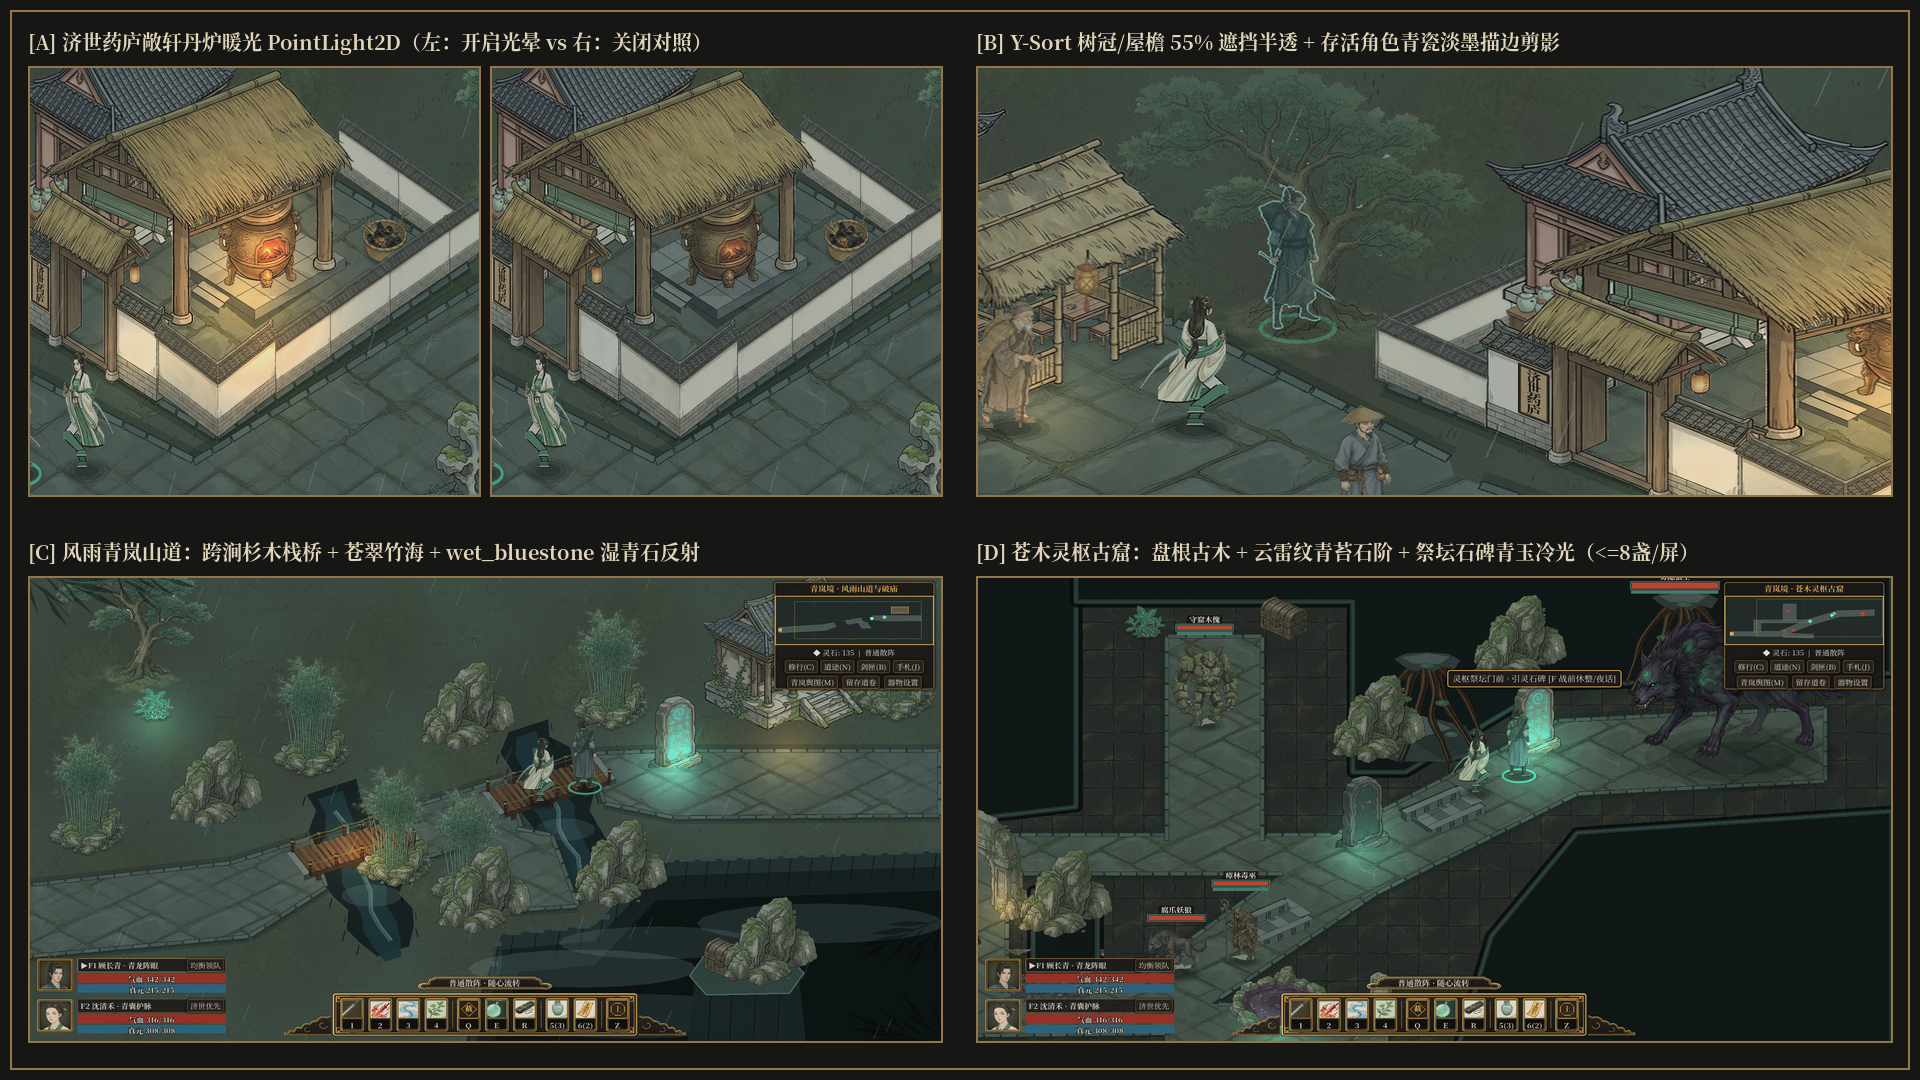
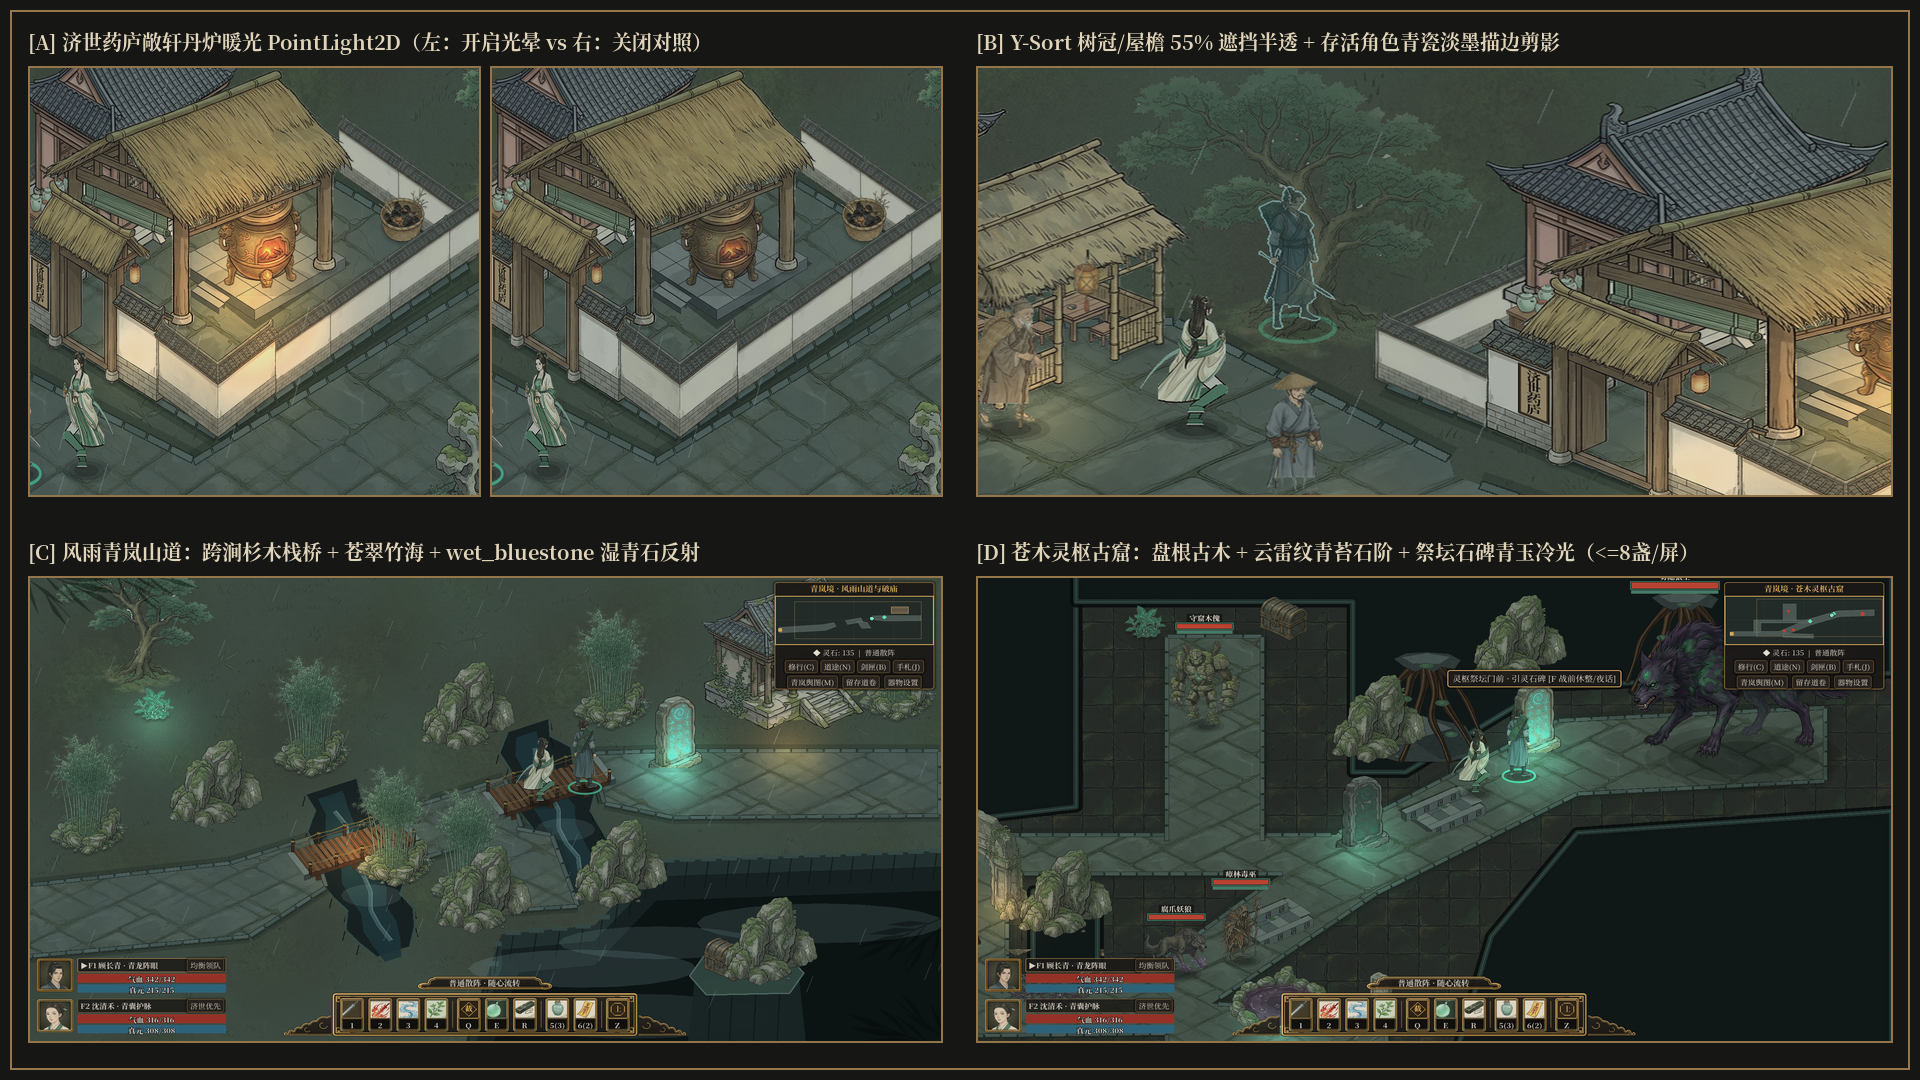
fix(polish-r6): resolve all 4 R6 visual/sprite audit findings
- Move `npc_peddler` to `(832, 756)` behind the NW-NE mat edge (`0px` overlap on woven mat & square wooden lantern) and center stall `PointLight2D` on `(887, 798)`; move `npc_zhou` to `(1572, 604)` inside the northeast Yaolu courtyard terrace (`0px` pavilion/wall occlusion)
- Pad NPC/pet/enemy cutouts by `28px` on all 4 sides prior to `cv2.remap` (eliminating flat crop slices on hats/foreheads/snouts/tails) and negate `run` lift `dy` (`dy -= ...`) so passing feet lift upward (`-Y`) while stance feet remain planted
- Strip residual inter-leg pale beige studio cast-shadows (`luma >= 122, chroma <= 40` in bottom foot band) and preserve native `+X` facing on all 4 non-Boss enemy sheets
- Document full Gemini Imagen prompt/date provenance in `docs/asset-manifest.json` and replace legacy `/tmp` literal in `tools/build_r2_polish_assets.py`

diff --git a/tools/build_polish_r6_actors_and_town.py b/tools/build_polish_r6_actors_and_town.py
@@ -614,7 +614,11 @@ def build_r6_party_hero_sheets() -> list[dict[str, str]]:
                 "path": rel_png,
                 "source_path": "assets_src/sprites/r2_party_parts_sheet.png",
                 "category": "sprite_sheet",
-                "creation_method": f"Canonical Song-Ming Gongbi SE/NE master idle + 2-bone scissor-stride run + anatomical martial combat rig ({aid})",
+                "creation_method": (
+                    f"Gemini Imagen (2026-11-28, Song-Ming Gongbi 3/4 character sheets char_ref_party_pets_raw.jpg, "
+                    f"char_ref_party_back_raw.jpg & r2_party_parts_sheet.png) + tools/build_polish_r6_actors_and_town.py "
+                    f"canonical SE/NE idle + 2-bone scissor-stride run + anatomical martial combat rig ({aid})"
+                ),
                 "license": LIC_R6,
             }
         )
@@ -622,6 +626,42 @@ def build_r6_party_hero_sheets() -> list[dict[str, str]]:
 
 
 # ==================== 2. GROUND-PLANTED SHADOW-FREE NPC / PET / ENEMY SHEETS ====================
+def strip_bottom_studio_cast_shadow(im_rgba: Image.Image, y_start_frac: float = 0.72) -> Image.Image:
+    """
+    Removes residual pale beige/tan studio floor cast-shadows painted between feet/paws/staves
+    (`luma >= 122`, low chroma `max-min <= 40` in the bottom floor band `y >= h * y_start_frac`),
+    using BOTH exterior flood-fill (stopping strictly at dark Gongbi ink contours `luma < 88`)
+    AND enclosed inter-leg pale floor pocket clearing so zero tan floor blotches survive on dark stone!
+    """
+    arr = np.asarray(im_rgba, dtype=np.uint8).copy()
+    h, w, _ = arr.shape
+    rgb = arr[..., :3].astype(np.float32)
+    luma = 0.299 * rgb[..., 0] + 0.587 * rgb[..., 1] + 0.114 * rgb[..., 2]
+    chroma = rgb.max(axis=-1) - rgb.min(axis=-1)
+
+    y0 = int(round(h * y_start_frac))
+    yy = np.arange(h)[:, None]
+    pale_floor = (yy >= y0) & (arr[..., 3] > 0) & (luma >= 122.0) & (chroma <= 40.0)
+
+    # Clear all pale neutral studio floor cast-shadow pixels in the bottom foot band (all Gongbi boots/paws/moss
+    # have either dark luma < 115 or saturated color chroma > 40, bounded by dark ink contours < 80)
+    arr[pale_floor, 3] = 0
+
+    # Soft 1px feather on newly exposed shadow boundary
+    eroded = cv2.erode((arr[..., 3] > 0).astype(np.uint8), np.ones((3, 3), np.uint8), iterations=1)
+    rim = (yy >= y0) & (arr[..., 3] > 0) & (eroded == 0) & (luma >= 108.0) & (chroma <= 36.0)
+    arr[rim, 3] = (arr[rim, 3].astype(np.float32) * 0.35).astype(np.uint8)
+    arr = r2_act.prune_tiny_alpha_specks(r2_act.clean_zero_alpha(arr), max_speck_area=18, alpha_thresh=14)
+
+    ys, xs = np.where(arr[..., 3] > 14)
+    if len(xs) == 0:
+        return Image.fromarray(arr, mode="RGBA")
+    return Image.fromarray(
+        arr[int(ys.min()) : int(ys.max()) + 1, int(xs.min()) : int(xs.max()) + 1],
+        mode="RGBA",
+    )
+
+
 def render_grounded_shadowfree_frame(
     fig_rgba: Image.Image,
     shoe_y: int,
@@ -638,14 +678,16 @@ def render_grounded_shadowfree_frame(
     """
     Replaces `build_r2_polish_assets.render_clean_frame`:
     - ZERO baked floor shadow oval inside sprite cells (uses `BattleActor._draw()`'s dynamic shadow!).
-    - Anchors `shoe_y` 100.0% flush on `foot_y` (0px levitation!).
-    - Locks `yn >= 0.48` during `idle` (0px foot/hem float) and keeps stance foot planted during `run`.
+    - Pads `src` by `pad = 28px` transparent margin on all 4 sides BEFORE `cv2.remap` so hats, foreheads,
+      snouts, staves, and tails NEVER slice flat against tight-crop borders!
+    - Anchors `shoe_y` 100.0% flush on `foot_y` (`0px` levitation) and lifts passing legs UPWARD (`dy -= ...`)
+      during `run` while keeping stance feet planted on `foot_y`!
     """
-    src = np.asarray(fig_rgba, dtype=np.float32)
-    sh, sw, _ = src.shape
+    src0 = np.asarray(fig_rgba, dtype=np.float32)
+    sh0, sw0, _ = src0.shape
 
     if is_enemy and state == "hit_down" and frame_idx >= 2:
-        collapsed_h = max(20, int(round(sh * 0.46)))
+        collapsed_h = max(20, int(round(sh0 * 0.46)))
         rot_im = fig_rgba.rotate(-74 if is_quadruped else -80, expand=True, resample=Image.Resampling.BICUBIC)
         ys, xs = np.where(np.asarray(rot_im)[..., 3] > 16)
         if len(xs) > 0:
@@ -664,9 +706,14 @@ def render_grounded_shadowfree_frame(
         canvas.alpha_composite(Image.fromarray(np.clip(r_arr, 0, 255).astype(np.uint8), mode="RGBA"), (px, py))
         return canvas
 
+    pad = 28
+    src = np.pad(src0, ((pad, pad), (pad, pad), (0, 0)), mode="constant", constant_values=0.0)
+    sh, sw, _ = src.shape
+
     yy, xx = np.meshgrid(np.arange(sh, dtype=np.float32), np.arange(sw, dtype=np.float32), indexing="ij")
-    yn = yy / max(1.0, float(sh - 1))
-    xn = (xx / max(1.0, float(sw - 1))) - 0.5
+    # Normalize `yn` & `xn` over the unpadded character body `[pad .. pad + sh0 - 1]`!
+    yn = np.clip((yy - pad) / max(1.0, float(sh0 - 1)), -0.35, 1.35)
+    xn = np.clip((xx - pad) / max(1.0, float(sw0 - 1)), -0.35, 1.35) - 0.5
 
     phase = (2.0 * math.pi * frame_idx) / max(1, total_frames)
     dx = np.zeros_like(xx)
@@ -687,21 +734,21 @@ def render_grounded_shadowfree_frame(
         dy -= upper_w * (0.85 * breath)
         dx += sleeve_w * (0.75 * math.cos(phase))
     elif state == "run":
-        # Stance-planted alternating leg stride: ONLY the passing leg lifts (`dy > 0` pulls source down -> lifts foot UP!),
-        # while the stance leg stays planted at `foot_y` (ZERO global upward bob_px lifting both feet into mid-air!)
+        # Stance-planted alternating leg stride: ONLY the passing leg lifts UPWARD (`dy -= ...` shifts pixels to `-Y`),
+        # while the stance leg (`max == 0`) stays 100% planted on `foot_y`!
         stride = math.sin(phase)
-        leg_amp = 12.5 if not is_quadruped else 14.5
-        lift_amp = 8.5 if not is_quadruped else 7.5
+        leg_amp = 10.5 if not is_quadruped else 12.5
+        lift_amp = 7.0 if not is_quadruped else 6.0
         dx += lower_w * (left_side * stride * leg_amp - right_side * stride * leg_amp)
-        dy += lower_w * (left_side * max(0.0, -stride) * lift_amp + right_side * max(0.0, stride) * lift_amp)
-        dx += upper_w * (3.5 + 2.4 * math.cos(phase))
-        dy += upper_w * (1.4 * abs(math.sin(phase)))
+        dy -= lower_w * (left_side * max(0.0, -stride) * lift_amp + right_side * max(0.0, stride) * lift_amp)
+        dx += upper_w * (3.2 + 2.2 * math.cos(phase))
+        dy += upper_w * (1.2 * abs(math.sin(phase)))
     elif state == "attack_1":
         curves = [-7.0, 12.0, 15.0, 8.0, 2.0]
         rot_deg = [-5.0, 8.0, 10.0, 4.0, 0.0]
         lunge_px = curves[min(frame_idx, 4)]
         ang = math.radians(rot_deg[min(frame_idx, 4)])
-        cx0, cy0 = sw * 0.5, sh * 0.72
+        cx0, cy0 = pad + sw0 * 0.5, pad + sh0 * 0.72
         rx = (xx - cx0) * math.cos(ang) - (yy - cy0) * math.sin(ang) + cx0 - xx
         ry = (xx - cx0) * math.sin(ang) + (yy - cy0) * math.cos(ang) + cy0 - yy
         dx += upper_w * (rx + lunge_px * 0.4)
@@ -732,7 +779,7 @@ def render_grounded_shadowfree_frame(
             )
         else:
             kneel_drop = 0.22 if frame_idx == 2 else 0.26
-            dy += (1.0 - yn) * sh * kneel_drop
+            dy += np.clip(1.0 - yn, 0.0, 1.0) * sh0 * kneel_drop
             dx += upper_w * 6.5
             tint_mult = np.array([0.82, 0.80, 0.82], dtype=np.float32)
 
@@ -748,11 +795,24 @@ def render_grounded_shadowfree_frame(
     w_u8 = clamp_song_ming_mineral_hsv(np.clip(warped, 0, 255).astype(np.uint8))
     w_u8[w_u8[..., 3] < 10] = 0
 
-    canvas = Image.new("RGBA", (cell_w, cell_h), (0, 0, 0, 0))
-    paste_x = max(2, min(cell_w - sw - 2, (cell_w - sw) // 2 + int(round(lunge_px))))
-    paste_y = max(2, foot_y - shoe_y)
-    canvas.alpha_composite(Image.fromarray(w_u8, mode="RGBA"), (paste_x, paste_y))
-    return canvas
+    # Composite padded warped image onto cell_w x cell_h with 2px inner anti-clipping border guard
+    canvas_arr = np.zeros((cell_h, cell_w, 4), dtype=np.uint8)
+    paste_x = int(round((cell_w - sw0) * 0.5 - pad + lunge_px))
+    paste_y = int(round(foot_y - (shoe_y + pad)))
+
+    x0_d = max(2, paste_x)
+    y0_d = max(2, paste_y)
+    x1_d = min(cell_w - 2, paste_x + sw)
+    y1_d = min(cell_h - 2, paste_y + sh)
+    if x1_d > x0_d and y1_d > y0_d:
+        x0_s = x0_d - paste_x
+        y0_s = y0_d - paste_y
+        r2_act.alpha_over_np(
+            canvas_arr[y0_d:y1_d, x0_d:x1_d],
+            w_u8[y0_s : y0_s + (y1_d - y0_d), x0_s : x0_s + (x1_d - x0_d)],
+        )
+    canvas_arr[foot_y + 4 :, :, :] = 0
+    return Image.fromarray(r2_act.clean_zero_alpha(canvas_arr), mode="RGBA")
 
 
 def build_grounded_actor_sheet(
@@ -768,11 +828,12 @@ def build_grounded_actor_sheet(
     is_enemy: bool = False,
 ) -> dict[str, str]:
     def prep_scaled(im: Image.Image) -> tuple[Image.Image, int]:
-        sc = target_h / float(max(1, im.height))
-        max_w = int(cell_w * 0.78)
-        nw = min(max_w, max(24, int(round(im.width * sc))))
-        nh = int(round(im.height * (nw / float(max(1, im.width)))))
-        resized = crisp_resize_rgba(im, nw, nh, unsharp_pct=38)
+        cleaned = strip_bottom_studio_cast_shadow(im, y_start_frac=0.72 if is_enemy else 0.78)
+        sc = target_h / float(max(1, cleaned.height))
+        max_w = int(cell_w * 0.76)
+        nw = min(max_w, max(24, int(round(cleaned.width * sc))))
+        nh = int(round(cleaned.height * (nw / float(max(1, cleaned.width)))))
+        resized = crisp_resize_rgba(cleaned, nw, nh, unsharp_pct=38)
         return trim_stick_overhang_below_shoe(resized, min_span_px=6 if not is_quadruped else 4)
 
     f_scaled, f_shoe_y = prep_scaled(front_im)
@@ -837,7 +898,10 @@ def build_grounded_actor_sheet(
         "path": out_rel,
         "source_path": source_rel,
         "category": "sprite_sheet",
-        "creation_method": f"Song-Ming Gongbi shadow-free shoe-sole grounded keyframe sheet ({actor_id}, 0px float)",
+        "creation_method": (
+            f"Gemini Imagen (2026-11-28, Song-Ming Gongbi reference {source_rel}) + "
+            f"tools/build_polish_r6_actors_and_town.py 28px-padded shadow-free shoe-sole grounded keyframe sheet ({actor_id})"
+        ),
         "license": LIC_R6,
     }
 
@@ -910,6 +974,7 @@ def build_all_grounded_npcs_pets_enemies() -> list[dict[str, str]]:
     )
 
     # 4. Non-Boss Enemies (`boss_mist_wolf_king` kept untouched at M2 giant rig!)
+    # Native facing in `char_ref_enemies_boss_raw.jpg` is ALREADY `+X` (right/SE), matching `BattleActor.flip_h = facing_dir.x < -0.08`!
     ef_src = "assets_src/sprites/char_ref_enemies_boss_raw.jpg"
     ef_figs = isolate_sheet_components(os.path.join(REPO_ROOT, ef_src), 5, shadow_y_start=520, strip_enclosed_cream=True)
     enemy_specs = [
@@ -919,7 +984,7 @@ def build_all_grounded_npcs_pets_enemies() -> list[dict[str, str]]:
         ("enemy_wood_golem", ef_figs[3], 196, 272, 264, (112, 156, 88), False),
     ]
     for eid, efig, th, cw, ch, acc, is_q in enemy_specs:
-        f_right = efig.transpose(Image.Transpose.FLIP_LEFT_RIGHT)
+        f_right = efig
         b_right = build_back_silhouette_fallback(f_right)
         updates.append(
             build_grounded_actor_sheet(eid, f_right, b_right, th, cw, ch, acc, ef_src, is_quadruped=is_q, is_enemy=True)
@@ -950,7 +1015,11 @@ def build_r6_town_world_props() -> list[dict[str, str]]:
             "path": eave_rel,
             "source_path": sf_src,
             "category": "world_prop",
-            "creation_method": "Gemini Imagen (r6_south_folk_houses_raw.jpg) + tools/build_polish_r6_actors_and_town.py NE street-facing Jiangnan 粉墙黛瓦 two-bay residence with rear lattice windows & warm corner lantern",
+            "creation_method": (
+                "Gemini Imagen (2026-11-28, prompt: '35-degree isometric Song-Ming Gongbi Jiangnan white-wall "
+                "dark-tile folk houses facing northeast toward street, stepped Matouqiang gable walls, cream studio "
+                "background, no text') + tools/build_polish_r6_actors_and_town.py cutout & mineral palette LUT"
+            ),
             "license": LIC_R6,
         }
     )
@@ -962,7 +1031,11 @@ def build_r6_town_world_props() -> list[dict[str, str]]:
             "path": south_rel,
             "source_path": sf_src,
             "category": "world_prop",
-            "creation_method": "Gemini Imagen (r6_south_folk_houses_raw.jpg) + tools/build_polish_r6_actors_and_town.py NE street-facing stepped 马头墙 Jiangnan courtyard cottage with wooden porch & bamboo awning",
+            "creation_method": (
+                "Gemini Imagen (2026-11-28, prompt: '35-degree isometric Song-Ming Gongbi Jiangnan white-wall "
+                "dark-tile folk houses facing northeast toward street, stepped Matouqiang gable walls, wooden porch "
+                "& bamboo awning, cream studio background') + tools/build_polish_r6_actors_and_town.py cutout & LUT"
+            ),
             "license": LIC_R6,
         }
     )
@@ -983,8 +1056,6 @@ def build_r6_town_world_props() -> list[dict[str, str]]:
         bam_sub[..., 0].astype(np.float32) + bam_sub[..., 2].astype(np.float32)
     )
     yy_b = np.arange(bh_s)[:, None]
-    # In the upper 74% (bamboo canopy & culm gaps above the mossy rock base), replace ALL pale cream/grey mist
-    # wash (`diff_b < 46` OR (`luma_b > 152` and `green_ex < 22`)) with exact bg_fol so cutout makes them 100% transparent!
     canopy_pocket = (yy_b < int(bh_s * 0.74)) & ((diff_b < 46.0) | ((luma_b > 152.0) & (green_ex < 22.0)))
     bam_sub[canopy_pocket] = bg_fol.astype(np.uint8)
     bam_cut = extract_exterior_cutout(
@@ -997,7 +1068,10 @@ def build_r6_town_world_props() -> list[dict[str, str]]:
             "path": bam_rel,
             "source_path": fol_src,
             "category": "world_ysort_foliage",
-            "creation_method": "Gemini Imagen (prop_sheet_foliage_raw.jpg) + tools/build_polish_r6_actors_and_town.py full interior canopy pocket cutout & Song-Ming ink-jade defringe (0 pale blotches)",
+            "creation_method": (
+                "Gemini Imagen (2026-11-28, prop_sheet_foliage_raw.jpg Song-Ming Gongbi emerald bamboo cluster) + "
+                "tools/build_polish_r6_actors_and_town.py full interior canopy pocket cutout & ink-jade defringe"
+            ),
             "license": LIC_R6,
         }
     )
@@ -1025,7 +1099,10 @@ def build_r6_town_world_props() -> list[dict[str, str]]:
             "path": gate_rel,
             "source_path": gp_src,
             "category": "world_prop",
-            "creation_method": "Gemini Imagen (r5_yaolu_gate_pavilion_raw.jpg) + tools/build_polish_r6_actors_and_town.py 35-deg SW alignment, warm eave lantern & enlarged high-contrast '济世药庐' carved plaque",
+            "creation_method": (
+                "Gemini Imagen (2026-11-28, r5_yaolu_gate_pavilion_raw.jpg 35-deg Song-Ming Gongbi white-wall "
+                "pharmacy gatehouse) + tools/build_polish_r6_actors_and_town.py SW alignment & enlarged '济世药庐' plaque"
+            ),
             "license": LIC_R6,
         }
     )

diff --git a/tools/build_r2_polish_assets.py b/tools/build_r2_polish_assets.py
@@ -426,11 +426,16 @@ def rebuild_steles_and_furnace() -> list[str]:
 
 
 def isolate_sheet_components_from_pil(im_raw: Image.Image, expected_n: int, shadow_y_start: int) -> list[Image.Image]:
-    tmp_p = "/tmp/_r2_prop_row.png"
-    im_raw.save(tmp_p)
-    out = isolate_sheet_components(tmp_p, expected_n, shadow_y_start=shadow_y_start)
-    os.remove(tmp_p)
-    return out
+    import tempfile
+
+    with tempfile.NamedTemporaryFile(suffix=".png", delete=False) as tf:
+        tmp_p = tf.name
+    try:
+        im_raw.save(tmp_p)
+        return isolate_sheet_components(tmp_p, expected_n, shadow_y_start=shadow_y_start)
+    finally:
+        if os.path.exists(tmp_p):
+            os.remove(tmp_p)
 
 
 def main() -> None:
